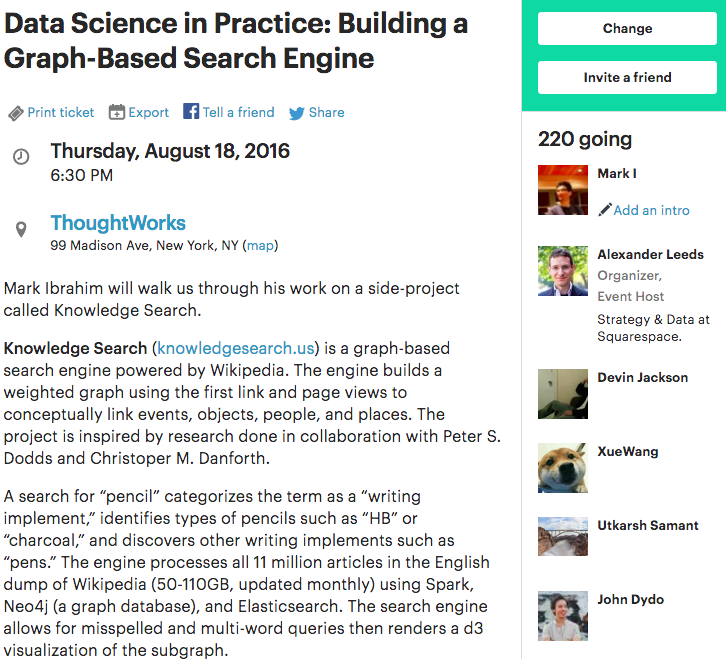
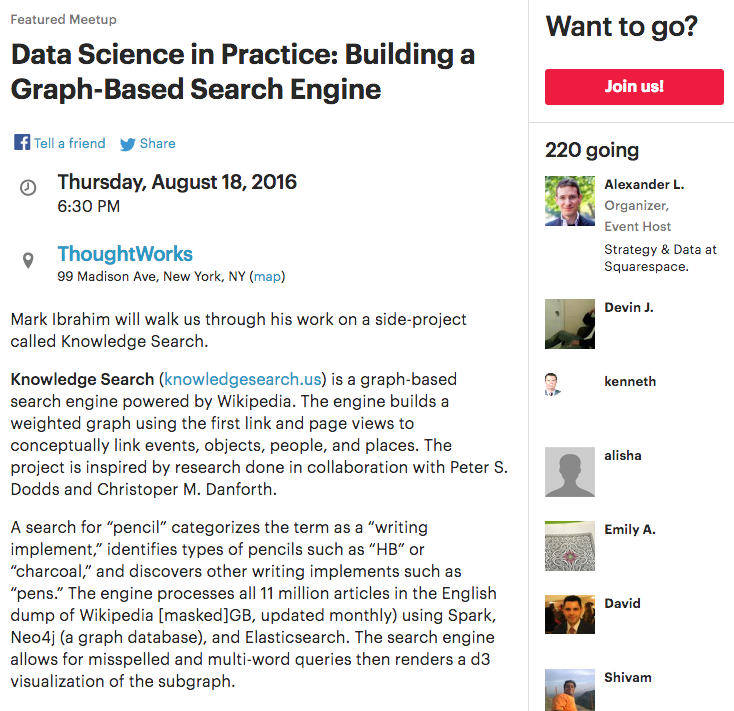
updated photo to knowledge search

diff --git a/_posts/2016-08-18-knowledge-search.md b/_posts/2016-08-18-knowledge-search.md
@@ -10,5 +10,4 @@ Come hear me talk about [Knowledge Search](http://knowledgesearch.us/) at the Ne
 
 A teaser of what you'll hear:
 
-
-![data_wranglers]({{ site.url }}musings/images/data_wranglers.png)
+[![data_wranglers]({{ site.url }}musings/images/data_wranglers.png)](http://www.meetup.com/NYC-Data-Wranglers/events/233260871/)
